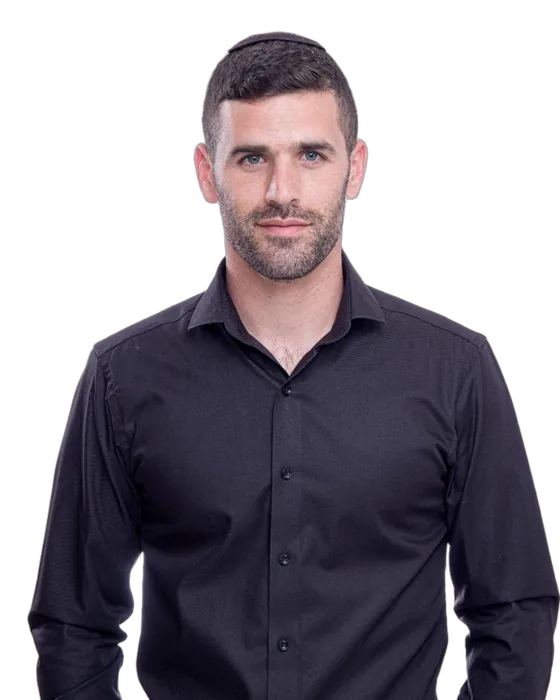
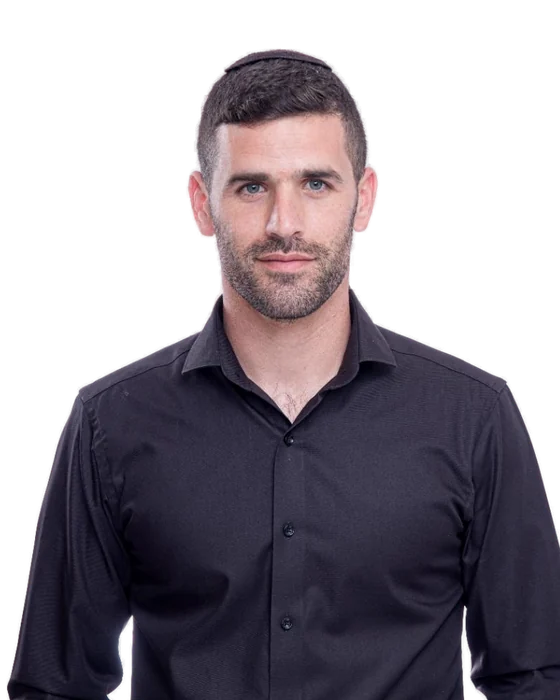
About: team photos cut out and blended into the blue background (r37)

diff --git a/index.html b/index.html
@@ -22,17 +22,17 @@
   if (!window.__still && matchMedia("(prefers-reduced-motion:no-preference)").matches) document.documentElement.classList.add("open-anim");
   if ("scrollRestoration" in history) history.scrollRestoration = "manual";
 </script>
-<link rel="stylesheet" href="assets/css/site.css?v=r36">
-<link rel="stylesheet" href="assets/css/scene.css?v=r36">
+<link rel="stylesheet" href="assets/css/site.css?v=r37">
+<link rel="stylesheet" href="assets/css/scene.css?v=r37">
 <link rel="preload" href="assets/img/scene/wide-on.webp" as="image" media="(min-aspect-ratio:9/10)">
 <link rel="preload" href="assets/img/scene/tall-on.webp" as="image" media="(max-aspect-ratio:9/10)">
 <!-- the page's own files carry the round (?v=), so a visitor never gets this round's code with pieces of the last one from the cache -->
-<script type="importmap">{"imports":{"./assets/js/ribbon.js":"./assets/js/ribbon.js?v=r36","./assets/js/arc-rings.js":"./assets/js/arc-rings.js?v=r36","./assets/js/sky.js":"./assets/js/sky.js?v=r36","./assets/js/scene-dom.js":"./assets/js/scene-dom.js?v=r36","./assets/js/scene-marks.js":"./assets/js/scene-marks.js?v=r36","./assets/js/scene-trail.js":"./assets/js/scene-trail.js?v=r36","./assets/js/menu-dots.js":"./assets/js/menu-dots.js?v=r36"}}</script>
+<script type="importmap">{"imports":{"./assets/js/ribbon.js":"./assets/js/ribbon.js?v=r37","./assets/js/arc-rings.js":"./assets/js/arc-rings.js?v=r37","./assets/js/sky.js":"./assets/js/sky.js?v=r37","./assets/js/scene-dom.js":"./assets/js/scene-dom.js?v=r37","./assets/js/scene-marks.js":"./assets/js/scene-marks.js?v=r37","./assets/js/scene-trail.js":"./assets/js/scene-trail.js?v=r37","./assets/js/menu-dots.js":"./assets/js/menu-dots.js?v=r37"}}</script>
 <script defer src="vendor/gsap/gsap.min.js"></script>
 <script defer src="vendor/gsap/SplitText.min.js"></script>
 <script defer src="vendor/lenis/lenis.min.js"></script>
-<script type="module" src="assets/js/site.js?v=r36"></script>
-<script type="module" src="assets/js/scene.js?v=r36"></script>
+<script type="module" src="assets/js/site.js?v=r37"></script>
+<script type="module" src="assets/js/scene.js?v=r37"></script>
 </head>
 <body>
 <!-- the living night: one field behind the whole page -->

diff --git a/assets/css/domain.css b/assets/css/domain.css
@@ -384,9 +384,13 @@
 .crew::before{content:"";position:absolute;inset-inline:-4%;top:34%;height:40%;transform:translateY(-50%);pointer-events:none;border-radius:50%;
   background:radial-gradient(closest-side,rgba(10,58,154,.32),transparent)}
 .mate{position:relative;text-align:center}
-.mate-pic{position:relative;display:block;aspect-ratio:4/5;overflow:hidden}
-.mate-pic::after{content:"";position:absolute;inset:auto 0 0;height:30%;background:linear-gradient(to top,rgba(var(--n0),.85),transparent);pointer-events:none}
-.mate-pic img{width:100%;height:100%;object-fit:cover;object-position:50% 0;display:block;filter:grayscale(.85) brightness(.48) contrast(1.05);
+.mate-pic{position:relative;display:block;aspect-ratio:4/5}
+.mate-pic::before{content:"";position:absolute;left:50%;top:48%;width:118%;aspect-ratio:1;transform:translate(-50%,-50%);border-radius:50%;pointer-events:none;
+  background:radial-gradient(closest-side,rgba(10,58,154,.42),rgba(10,58,154,.12) 60%,transparent);opacity:.5;transition:opacity 1.1s var(--ease) calc(var(--i,0) * 90ms)}
+.mate.on .mate-pic::before{opacity:1}
+.mate-pic img{position:relative;width:100%;height:100%;object-fit:contain;object-position:50% 0;display:block;filter:grayscale(.85) brightness(.48) contrast(1.05);
+  -webkit-mask-image:linear-gradient(to bottom,#000 62%,transparent 97%),linear-gradient(to right,transparent,#000 9%,#000 91%,transparent);-webkit-mask-composite:source-in;
+  mask-image:linear-gradient(to bottom,#000 62%,transparent 97%),linear-gradient(to right,transparent,#000 9%,#000 91%,transparent);mask-composite:intersect;
   transition:filter 1.1s var(--ease) calc(var(--i,0) * 90ms)}
 .mate h3{margin-top:12px;font-family:var(--text);font-weight:500;font-size:clamp(16px,.5vw + .7rem,20px);line-height:1.3;color:var(--ink-soft);transition:color .9s var(--ease) calc(var(--i,0) * 90ms)}
 .mate p{margin-top:4px;font-size:clamp(13px,.3vw + .65rem,16px);line-height:1.4;color:var(--muted)}

diff --git a/about.html b/about.html
@@ -20,15 +20,15 @@
     if (ax.text) d.classList.add("ax-t" + ax.text); })(document.documentElement);
   if ("scrollRestoration" in history) history.scrollRestoration = "manual";
 </script>
-<link rel="stylesheet" href="assets/css/site.css?v=r36">
-<link rel="stylesheet" href="assets/css/domain.css?v=r36">
+<link rel="stylesheet" href="assets/css/site.css?v=r37">
+<link rel="stylesheet" href="assets/css/domain.css?v=r37">
 <!-- the page's own files carry the round (?v=), so a visitor never gets this round's code with pieces of the last one from the cache -->
-<script type="importmap">{"imports":{"./assets/js/ribbon.js":"./assets/js/ribbon.js?v=r36","./assets/js/arc-rings.js":"./assets/js/arc-rings.js?v=r36","./assets/js/sky.js":"./assets/js/sky.js?v=r36","./assets/js/mark3d.js":"./assets/js/mark3d.js?v=r36"}}</script>
+<script type="importmap">{"imports":{"./assets/js/ribbon.js":"./assets/js/ribbon.js?v=r37","./assets/js/arc-rings.js":"./assets/js/arc-rings.js?v=r37","./assets/js/sky.js":"./assets/js/sky.js?v=r37","./assets/js/mark3d.js":"./assets/js/mark3d.js?v=r37"}}</script>
 <script defer src="vendor/gsap/gsap.min.js"></script>
 <script defer src="vendor/lenis/lenis.min.js"></script>
-<script type="module" src="assets/js/page.js?v=r36"></script>
-<script type="module" src="assets/js/domain.js?v=r36"></script>
-<script type="module" src="assets/js/mark3d.js?v=r36"></script>
+<script type="module" src="assets/js/page.js?v=r37"></script>
+<script type="module" src="assets/js/domain.js?v=r37"></script>
+<script type="module" src="assets/js/mark3d.js?v=r37"></script>
 </head>
 <body>
 <canvas id="sky" aria-hidden="true"></canvas>

diff --git a/charge.html b/charge.html
@@ -22,14 +22,14 @@
     if (ax.text) d.classList.add("ax-t" + ax.text); })(document.documentElement);
   if ("scrollRestoration" in history) history.scrollRestoration = "manual";
 </script>
-<link rel="stylesheet" href="assets/css/site.css?v=r36">
-<link rel="stylesheet" href="assets/css/domain.css?v=r36">
+<link rel="stylesheet" href="assets/css/site.css?v=r37">
+<link rel="stylesheet" href="assets/css/domain.css?v=r37">
 <!-- the page's own files carry the round (?v=), so a visitor never gets this round's code with pieces of the last one from the cache -->
-<script type="importmap">{"imports":{"./assets/js/ribbon.js":"./assets/js/ribbon.js?v=r36","./assets/js/arc-rings.js":"./assets/js/arc-rings.js?v=r36","./assets/js/sky.js":"./assets/js/sky.js?v=r36"}}</script>
+<script type="importmap">{"imports":{"./assets/js/ribbon.js":"./assets/js/ribbon.js?v=r37","./assets/js/arc-rings.js":"./assets/js/arc-rings.js?v=r37","./assets/js/sky.js":"./assets/js/sky.js?v=r37"}}</script>
 <script defer src="vendor/gsap/gsap.min.js"></script>
 <script defer src="vendor/lenis/lenis.min.js"></script>
-<script type="module" src="assets/js/page.js?v=r36"></script>
-<script type="module" src="assets/js/domain.js?v=r36"></script>
+<script type="module" src="assets/js/page.js?v=r37"></script>
+<script type="module" src="assets/js/domain.js?v=r37"></script>
 </head>
 <body>
 <canvas id="sky" aria-hidden="true"></canvas>

diff --git a/contact.html b/contact.html
@@ -22,14 +22,14 @@
     if (ax.text) d.classList.add("ax-t" + ax.text); })(document.documentElement);
   if ("scrollRestoration" in history) history.scrollRestoration = "manual";
 </script>
-<link rel="stylesheet" href="assets/css/site.css?v=r36">
-<link rel="stylesheet" href="assets/css/domain.css?v=r36">
+<link rel="stylesheet" href="assets/css/site.css?v=r37">
+<link rel="stylesheet" href="assets/css/domain.css?v=r37">
 <!-- the page's own files carry the round (?v=), so a visitor never gets this round's code with pieces of the last one from the cache -->
-<script type="importmap">{"imports":{"./assets/js/ribbon.js":"./assets/js/ribbon.js?v=r36","./assets/js/arc-rings.js":"./assets/js/arc-rings.js?v=r36","./assets/js/sky.js":"./assets/js/sky.js?v=r36"}}</script>
+<script type="importmap">{"imports":{"./assets/js/ribbon.js":"./assets/js/ribbon.js?v=r37","./assets/js/arc-rings.js":"./assets/js/arc-rings.js?v=r37","./assets/js/sky.js":"./assets/js/sky.js?v=r37"}}</script>
 <script defer src="vendor/gsap/gsap.min.js"></script>
 <script defer src="vendor/lenis/lenis.min.js"></script>
-<script type="module" src="assets/js/page.js?v=r36"></script>
-<script type="module" src="assets/js/domain.js?v=r36"></script>
+<script type="module" src="assets/js/page.js?v=r37"></script>
+<script type="module" src="assets/js/domain.js?v=r37"></script>
 </head>
 <body>
 <canvas id="sky" aria-hidden="true"></canvas>

diff --git a/knowledge.html b/knowledge.html
@@ -22,14 +22,14 @@
     if (ax.text) d.classList.add("ax-t" + ax.text); })(document.documentElement);
   if ("scrollRestoration" in history) history.scrollRestoration = "manual";
 </script>
-<link rel="stylesheet" href="assets/css/site.css?v=r36">
-<link rel="stylesheet" href="assets/css/domain.css?v=r36">
+<link rel="stylesheet" href="assets/css/site.css?v=r37">
+<link rel="stylesheet" href="assets/css/domain.css?v=r37">
 <!-- the page's own files carry the round (?v=), so a visitor never gets this round's code with pieces of the last one from the cache -->
-<script type="importmap">{"imports":{"./assets/js/ribbon.js":"./assets/js/ribbon.js?v=r36","./assets/js/arc-rings.js":"./assets/js/arc-rings.js?v=r36","./assets/js/sky.js":"./assets/js/sky.js?v=r36"}}</script>
+<script type="importmap">{"imports":{"./assets/js/ribbon.js":"./assets/js/ribbon.js?v=r37","./assets/js/arc-rings.js":"./assets/js/arc-rings.js?v=r37","./assets/js/sky.js":"./assets/js/sky.js?v=r37"}}</script>
 <script defer src="vendor/gsap/gsap.min.js"></script>
 <script defer src="vendor/lenis/lenis.min.js"></script>
-<script type="module" src="assets/js/page.js?v=r36"></script>
-<script type="module" src="assets/js/domain.js?v=r36"></script>
+<script type="module" src="assets/js/page.js?v=r37"></script>
+<script type="module" src="assets/js/domain.js?v=r37"></script>
 </head>
 <body>
 <canvas id="sky" aria-hidden="true"></canvas>

diff --git a/solar.html b/solar.html
@@ -22,14 +22,14 @@
     if (ax.text) d.classList.add("ax-t" + ax.text); })(document.documentElement);
   if ("scrollRestoration" in history) history.scrollRestoration = "manual";
 </script>
-<link rel="stylesheet" href="assets/css/site.css?v=r36">
-<link rel="stylesheet" href="assets/css/domain.css?v=r36">
+<link rel="stylesheet" href="assets/css/site.css?v=r37">
+<link rel="stylesheet" href="assets/css/domain.css?v=r37">
 <!-- the page's own files carry the round (?v=), so a visitor never gets this round's code with pieces of the last one from the cache -->
-<script type="importmap">{"imports":{"./assets/js/ribbon.js":"./assets/js/ribbon.js?v=r36","./assets/js/arc-rings.js":"./assets/js/arc-rings.js?v=r36","./assets/js/sky.js":"./assets/js/sky.js?v=r36"}}</script>
+<script type="importmap">{"imports":{"./assets/js/ribbon.js":"./assets/js/ribbon.js?v=r37","./assets/js/arc-rings.js":"./assets/js/arc-rings.js?v=r37","./assets/js/sky.js":"./assets/js/sky.js?v=r37"}}</script>
 <script defer src="vendor/gsap/gsap.min.js"></script>
 <script defer src="vendor/lenis/lenis.min.js"></script>
-<script type="module" src="assets/js/page.js?v=r36"></script>
-<script type="module" src="assets/js/domain.js?v=r36"></script>
+<script type="module" src="assets/js/page.js?v=r37"></script>
+<script type="module" src="assets/js/domain.js?v=r37"></script>
 </head>
 <body>
 <canvas id="sky" aria-hidden="true"></canvas>

diff --git a/storage.html b/storage.html
@@ -22,14 +22,14 @@
     if (ax.text) d.classList.add("ax-t" + ax.text); })(document.documentElement);
   if ("scrollRestoration" in history) history.scrollRestoration = "manual";
 </script>
-<link rel="stylesheet" href="assets/css/site.css?v=r36">
-<link rel="stylesheet" href="assets/css/domain.css?v=r36">
+<link rel="stylesheet" href="assets/css/site.css?v=r37">
+<link rel="stylesheet" href="assets/css/domain.css?v=r37">
 <!-- the page's own files carry the round (?v=), so a visitor never gets this round's code with pieces of the last one from the cache -->
-<script type="importmap">{"imports":{"./assets/js/ribbon.js":"./assets/js/ribbon.js?v=r36","./assets/js/arc-rings.js":"./assets/js/arc-rings.js?v=r36","./assets/js/sky.js":"./assets/js/sky.js?v=r36"}}</script>
+<script type="importmap">{"imports":{"./assets/js/ribbon.js":"./assets/js/ribbon.js?v=r37","./assets/js/arc-rings.js":"./assets/js/arc-rings.js?v=r37","./assets/js/sky.js":"./assets/js/sky.js?v=r37"}}</script>
 <script defer src="vendor/gsap/gsap.min.js"></script>
 <script defer src="vendor/lenis/lenis.min.js"></script>
-<script type="module" src="assets/js/page.js?v=r36"></script>
-<script type="module" src="assets/js/domain.js?v=r36"></script>
+<script type="module" src="assets/js/page.js?v=r37"></script>
+<script type="module" src="assets/js/domain.js?v=r37"></script>
 </head>
 <body>
 <canvas id="sky" aria-hidden="true"></canvas>

diff --git a/article.html b/article.html
@@ -21,12 +21,12 @@
     if (ax.text) d.classList.add("ax-t" + ax.text); })(document.documentElement);
   if ("scrollRestoration" in history) history.scrollRestoration = "manual";
 </script>
-<link rel="stylesheet" href="assets/css/site.css?v=r36">
-<link rel="stylesheet" href="assets/css/domain.css?v=r36">
+<link rel="stylesheet" href="assets/css/site.css?v=r37">
+<link rel="stylesheet" href="assets/css/domain.css?v=r37">
 <!-- the page's own files carry the round (?v=), so a visitor never gets this round's code with pieces of the last one from the cache -->
-<script type="importmap">{"imports":{"./assets/js/ribbon.js":"./assets/js/ribbon.js?v=r36","./assets/js/arc-rings.js":"./assets/js/arc-rings.js?v=r36","./assets/js/sky.js":"./assets/js/sky.js?v=r36"}}</script>
-<script type="module" src="assets/js/page.js?v=r36"></script>
-<script type="module" src="assets/js/article.js?v=r36"></script>
+<script type="importmap">{"imports":{"./assets/js/ribbon.js":"./assets/js/ribbon.js?v=r37","./assets/js/arc-rings.js":"./assets/js/arc-rings.js?v=r37","./assets/js/sky.js":"./assets/js/sky.js?v=r37"}}</script>
+<script type="module" src="assets/js/page.js?v=r37"></script>
+<script type="module" src="assets/js/article.js?v=r37"></script>
 </head>
 <body>
 <canvas id="sky" aria-hidden="true"></canvas>

diff --git a/accessibility.html b/accessibility.html
@@ -20,11 +20,11 @@
     if (ax.text) d.classList.add("ax-t" + ax.text); })(document.documentElement);
   if ("scrollRestoration" in history) history.scrollRestoration = "manual";
 </script>
-<link rel="stylesheet" href="assets/css/site.css?v=r36">
-<link rel="stylesheet" href="assets/css/domain.css?v=r36">
+<link rel="stylesheet" href="assets/css/site.css?v=r37">
+<link rel="stylesheet" href="assets/css/domain.css?v=r37">
 <!-- the page's own files carry the round (?v=), so a visitor never gets this round's code with pieces of the last one from the cache -->
-<script type="importmap">{"imports":{"./assets/js/ribbon.js":"./assets/js/ribbon.js?v=r36","./assets/js/arc-rings.js":"./assets/js/arc-rings.js?v=r36","./assets/js/sky.js":"./assets/js/sky.js?v=r36"}}</script>
-<script type="module" src="assets/js/page.js?v=r36"></script>
+<script type="importmap">{"imports":{"./assets/js/ribbon.js":"./assets/js/ribbon.js?v=r37","./assets/js/arc-rings.js":"./assets/js/arc-rings.js?v=r37","./assets/js/sky.js":"./assets/js/sky.js?v=r37"}}</script>
+<script type="module" src="assets/js/page.js?v=r37"></script>
 </head>
 <body>
 <canvas id="sky" aria-hidden="true"></canvas>

diff --git a/privacy.html b/privacy.html
@@ -20,11 +20,11 @@
     if (ax.text) d.classList.add("ax-t" + ax.text); })(document.documentElement);
   if ("scrollRestoration" in history) history.scrollRestoration = "manual";
 </script>
-<link rel="stylesheet" href="assets/css/site.css?v=r36">
-<link rel="stylesheet" href="assets/css/domain.css?v=r36">
+<link rel="stylesheet" href="assets/css/site.css?v=r37">
+<link rel="stylesheet" href="assets/css/domain.css?v=r37">
 <!-- the page's own files carry the round (?v=), so a visitor never gets this round's code with pieces of the last one from the cache -->
-<script type="importmap">{"imports":{"./assets/js/ribbon.js":"./assets/js/ribbon.js?v=r36","./assets/js/arc-rings.js":"./assets/js/arc-rings.js?v=r36","./assets/js/sky.js":"./assets/js/sky.js?v=r36"}}</script>
-<script type="module" src="assets/js/page.js?v=r36"></script>
+<script type="importmap">{"imports":{"./assets/js/ribbon.js":"./assets/js/ribbon.js?v=r37","./assets/js/arc-rings.js":"./assets/js/arc-rings.js?v=r37","./assets/js/sky.js":"./assets/js/sky.js?v=r37"}}</script>
+<script type="module" src="assets/js/page.js?v=r37"></script>
 </head>
 <body>
 <canvas id="sky" aria-hidden="true"></canvas>

diff --git a/terms.html b/terms.html
@@ -20,11 +20,11 @@
     if (ax.text) d.classList.add("ax-t" + ax.text); })(document.documentElement);
   if ("scrollRestoration" in history) history.scrollRestoration = "manual";
 </script>
-<link rel="stylesheet" href="assets/css/site.css?v=r36">
-<link rel="stylesheet" href="assets/css/domain.css?v=r36">
+<link rel="stylesheet" href="assets/css/site.css?v=r37">
+<link rel="stylesheet" href="assets/css/domain.css?v=r37">
 <!-- the page's own files carry the round (?v=), so a visitor never gets this round's code with pieces of the last one from the cache -->
-<script type="importmap">{"imports":{"./assets/js/ribbon.js":"./assets/js/ribbon.js?v=r36","./assets/js/arc-rings.js":"./assets/js/arc-rings.js?v=r36","./assets/js/sky.js":"./assets/js/sky.js?v=r36"}}</script>
-<script type="module" src="assets/js/page.js?v=r36"></script>
+<script type="importmap">{"imports":{"./assets/js/ribbon.js":"./assets/js/ribbon.js?v=r37","./assets/js/arc-rings.js":"./assets/js/arc-rings.js?v=r37","./assets/js/sky.js":"./assets/js/sky.js?v=r37"}}</script>
+<script type="module" src="assets/js/page.js?v=r37"></script>
 </head>
 <body>
 <canvas id="sky" aria-hidden="true"></canvas>
